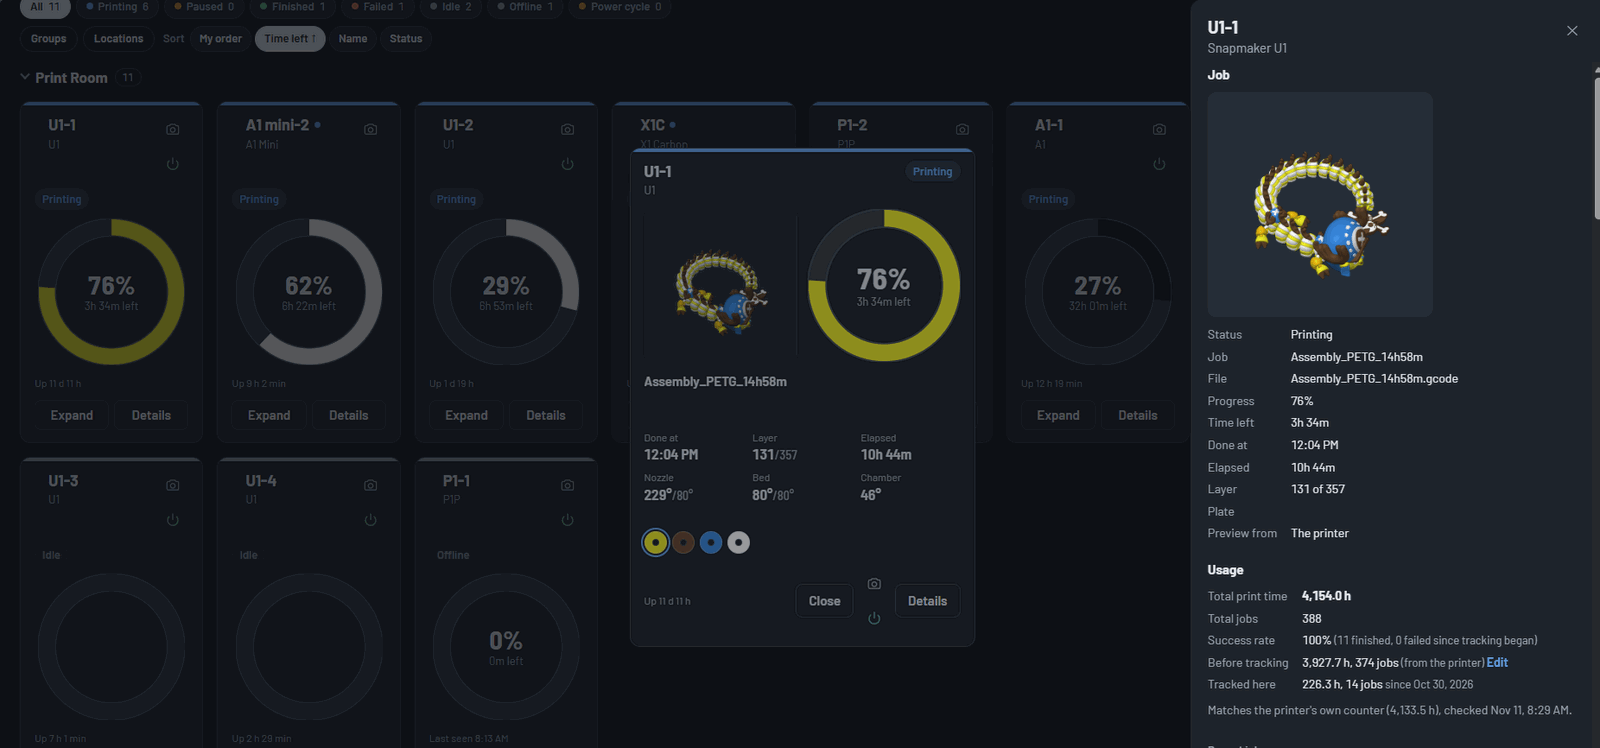
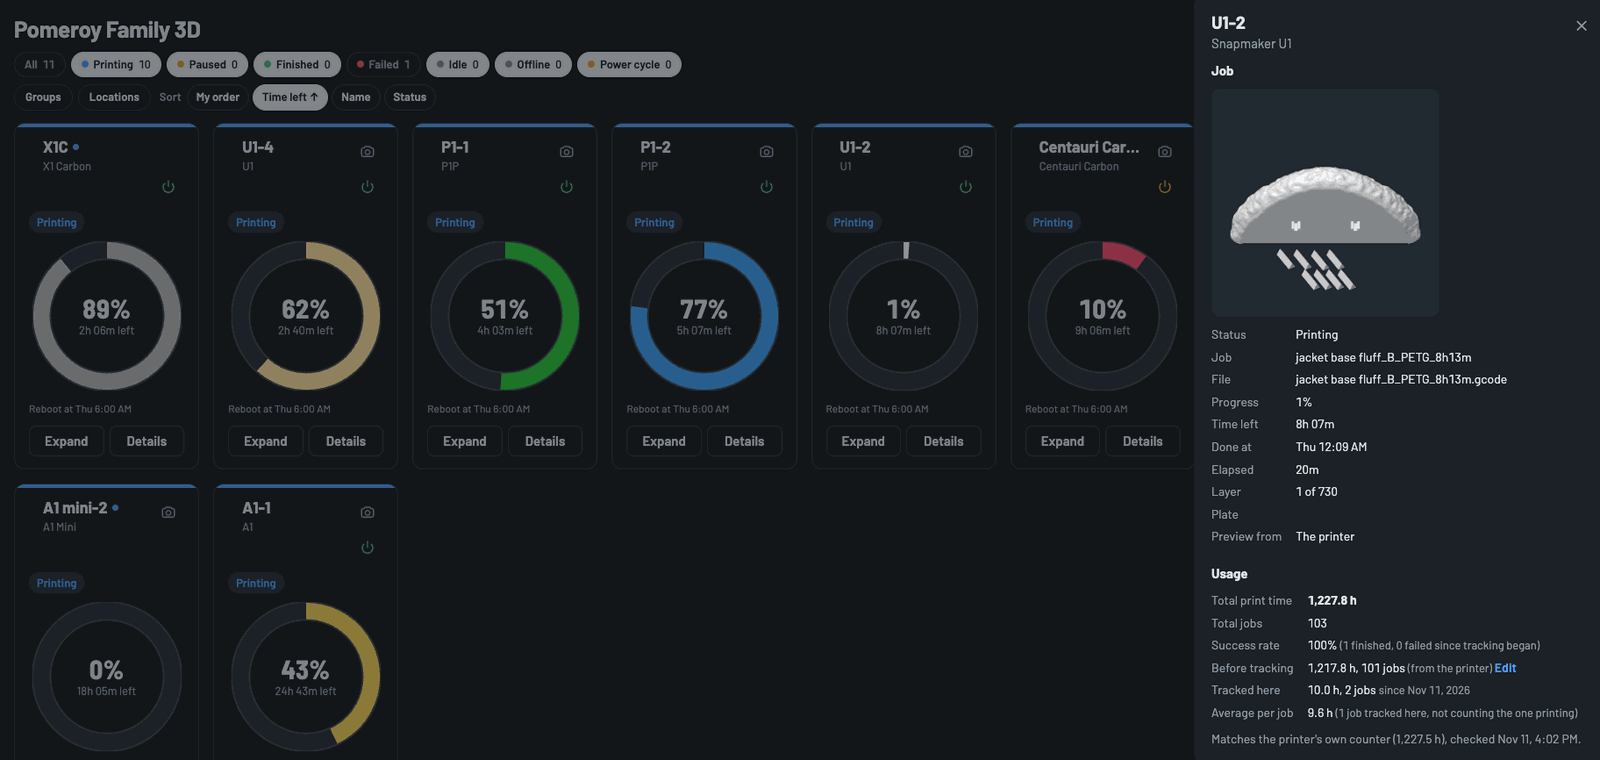
Screenshots for v0.1.3: Details, Govee plugs, Manage tags, About
Claude-Session: https://claude.ai/code/session_01FVijUM4cXzPQW4JktAeXxC

diff --git a/README.md b/README.md
@@ -59,8 +59,9 @@ things it can switch are a printer's **smart plug** (Govee) and the printer's **
 |---|---|
 | ![Camera wall](docs/screenshots/camera-wall.jpg) **Camera wall**: every camera at once, streaming only while open | ![Single camera](docs/screenshots/camera-single.jpg) **One printer's camera** from its card |
 | ![List view](docs/screenshots/list-view.png) **List view**, sortable by any column | ![Compact view](docs/screenshots/compact-expanded.png) **Compact view**, a card expanded |
-| ![Details panel](docs/screenshots/details-panel.png) **Details**: job, print hours, history | ![Smart plug](docs/screenshots/smart-plug.png) **Smart plug**: on/off and an optional daily power cycle |
-| ![Job history](docs/screenshots/job-history.png) **Job history** for the whole fleet, with CSV export (light theme) | ![Govee plugs](docs/screenshots/govee-plugs.png) **Govee account**: which plug powers which printer, request budget |
+| ![Details panel](docs/screenshots/details-panel.png) **Details**: job, print hours, average per job, history | ![Smart plug](docs/screenshots/smart-plug.png) **Smart plug**: on/off and an optional daily power cycle |
+| ![Job history](docs/screenshots/job-history.png) **Job history** for the whole fleet, with CSV export (light theme) | ![Govee plugs](docs/screenshots/govee-plugs.png) **Govee plugs**: which plug powers which printer, daily power cycle, offline plugs, request budget |
+| ![Manage tags](docs/screenshots/manage-tags.png) **Manage tags**: add tags and pick which printers have each one | ![About](docs/screenshots/about.png) **About**: version and project links |
 
 **On a phone**, light or dark:
 
